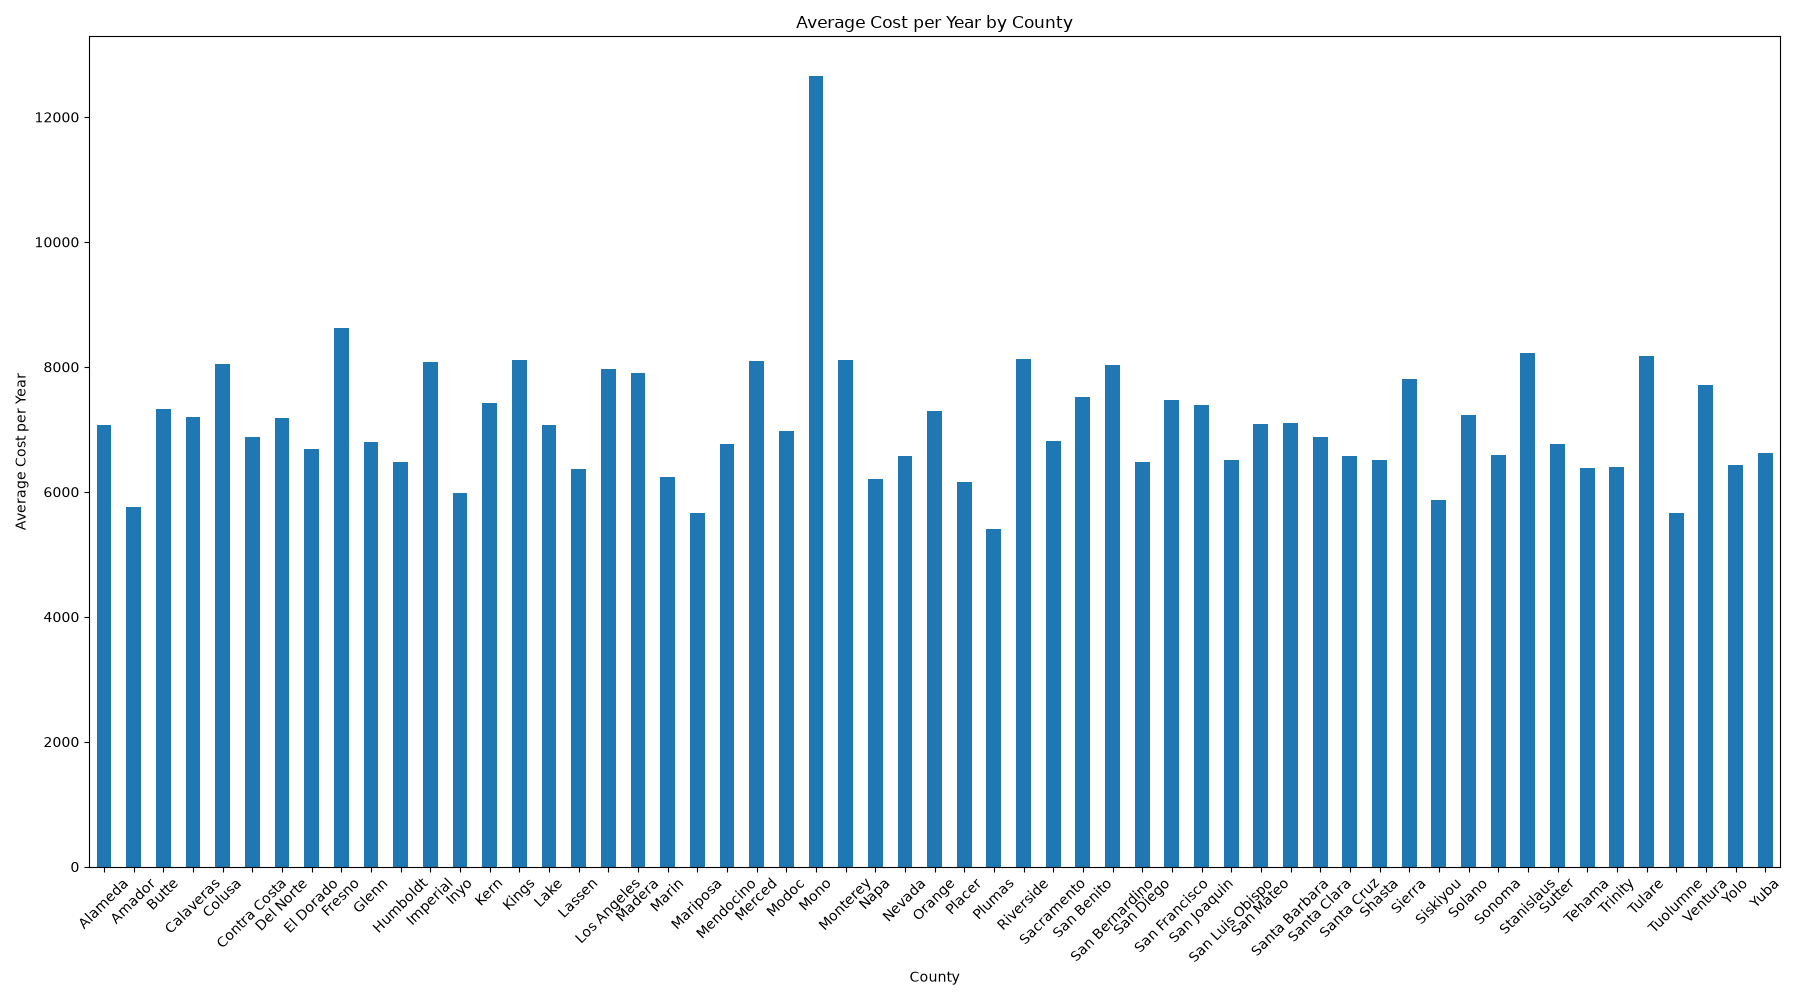
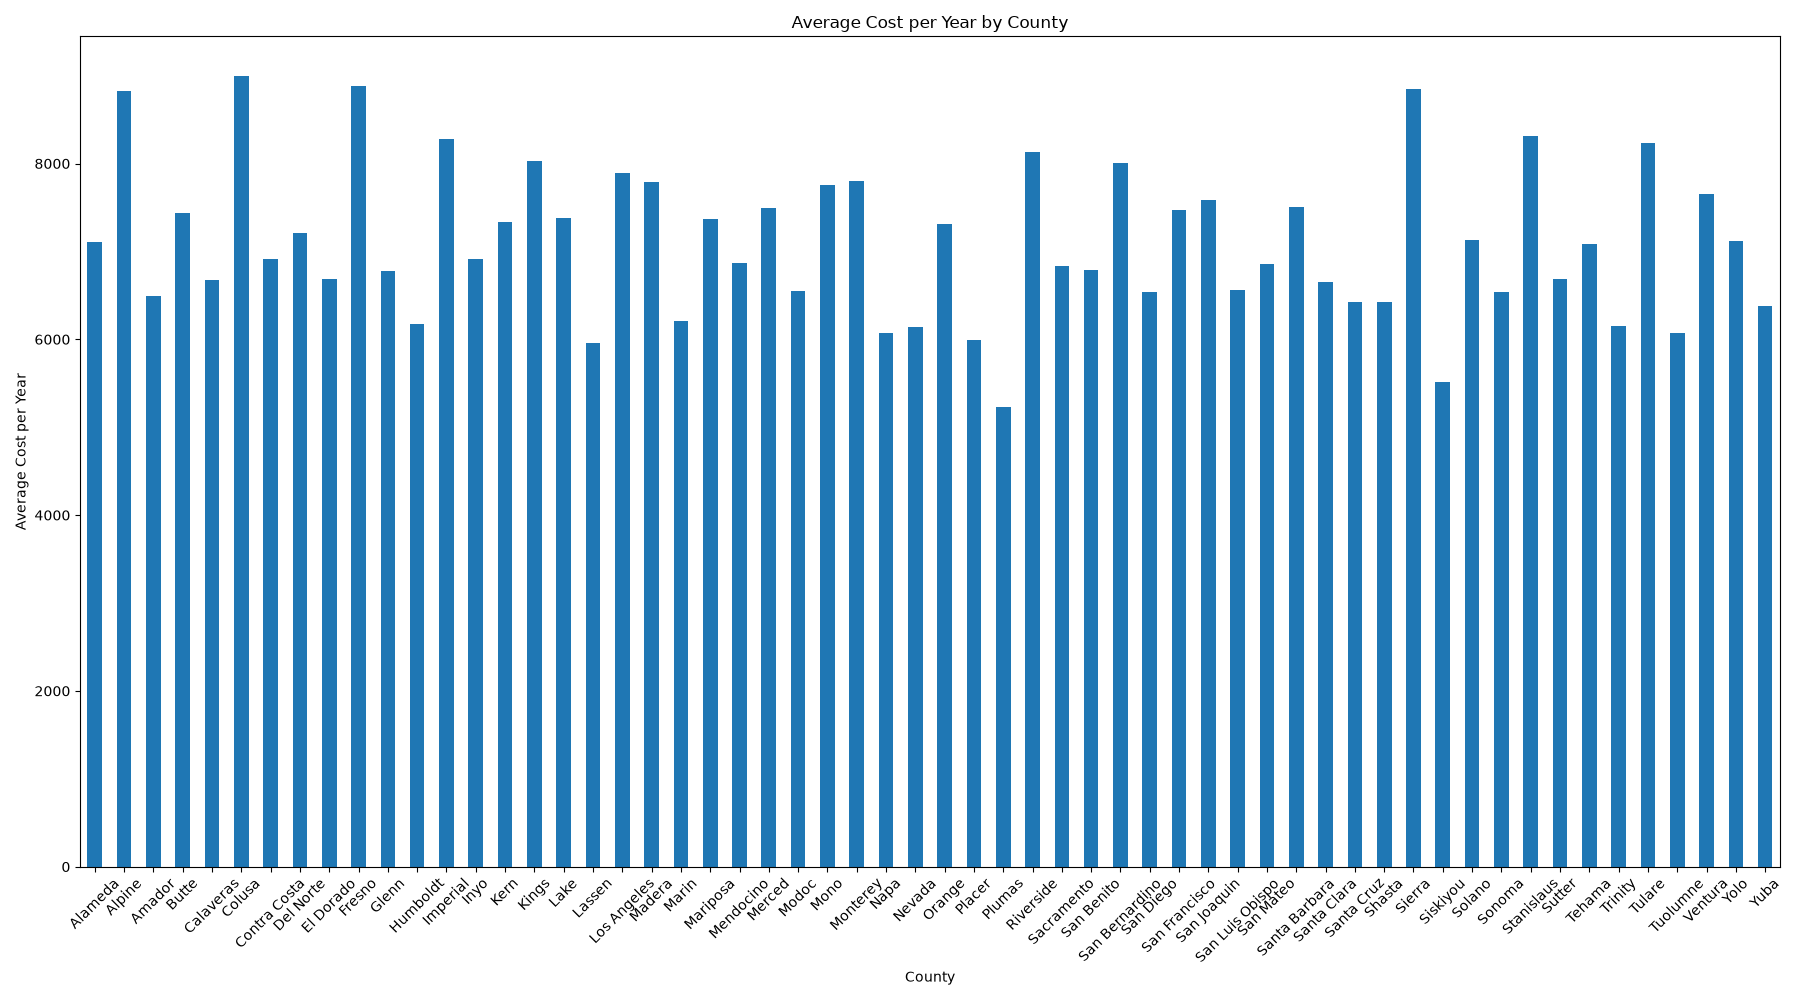
Add files via upload

diff --git a/Project Report Code.py b/Project Report Code.py
@@ -1,52 +1,70 @@
 # Kisha Kiprop
 # CSE 163 AE
-# Creates visualizations for the California County Report
-# based on the research questions
+# Creates visualizations for the California Food Affordability
+# with columns of interest (cost_yr, median_income, county_name,
+# ave_fam_size)
 import pandas as pd
 import matplotlib.pyplot as plt
 import seaborn as sns
 import numpy as np
+
 
 def main():
     # reads data from the excel file and prints the column names
     california_data = pd.read_excel('data.xls')
     print(f"Total number of families in the dataset: {len(california_data)}")
 
-    # drops any rows with missing values
-    california_data =california_data.dropna().reset_index(drop=True)
-    print(f"Total number of families in the dataset after dropping missing values: {len(california_data)}\n")
+    # groups the data by county and calculates the average cost per year,
+    # median income, and average family size for each county
+    county_spending = california_data.groupby(
+        "county_name")["cost_yr"].mean().reset_index()
+    county_salary = california_data.groupby(
+        "county_name")["median_income"].mean().reset_index()
+    county_family_size = california_data.groupby(
+        "county_name")["ave_fam_size"].mean().reset_index()
 
-    # groups the data by county and calculates the average cost per year, median income, and average family size for each county
-    county_spending = california_data.groupby("county_name")["cost_yr"].mean().reset_index()
-    county_salary = california_data.groupby("county_name")["median_income"].mean().reset_index()
-    county_family_size = california_data.groupby("county_name")["ave_fam_size"].mean().reset_index()
+    # merges the three dataframes on the county_name column to create a
+    # new dataframe with all the relevant information for each county
+    county_joined = pd.merge(county_spending,
+                             county_salary,
+                             on="county_name")
+
+    county_joined = pd.merge(county_joined,
+                             county_family_size,
+                             on="county_name")
+
+    # drops any rows with missing values and resets the index of the dataframe
+    county_joined = county_joined.dropna().reset_index(drop=True)
 
     # prints the seven number summary for the cost_yr column
-    seven_number_summary(county_spending, "cost_yr")
+    seven_number_summary(county_joined, "cost_yr")
     print()
 
     # prints the seven number summary for the median_income column
-    seven_number_summary(county_salary, "median_income")
+    seven_number_summary(county_joined, "median_income")
     print()
 
     # prints the seven number summary for the average family size column
-    seven_number_summary(county_family_size, "ave_fam_size")
+    seven_number_summary(county_joined, "ave_fam_size")
     print()
 
     # prints each unique county name in the dataset
-    print(f"\nThe {len(county_spending)} unique county names in the dataset are: {county_spending['county_name'].tolist()}")
-
-    # merges the three dataframes on the county_name column to create a new dataframe with all the relevant information for each county
-    county_joined = pd.merge(county_spending, county_salary, on="county_name")
-    county_joined = pd.merge(county_joined, county_family_size, on="county_name")
-
+    print(
+        f"\nThe {
+            len(county_joined)} unique county names in the dataset are: {
+            county_joined['county_name'].tolist()}")
     avg_cost_per_year_by_county(county_joined)
 
-    # Creates a new column in the county_joined dataframe that calculates 
+    # Creates a new column in the county_joined dataframe that calculates
     # the ratio of median income to cost per year for each county
     salary_vs_cost(county_joined)
 
     individual_affordability(california_data)
+    result_validity(california_data)
+    print()
+
+    test_seven_number_summary()
+    test_salary_vs_cost()
 
 
 def seven_number_summary(data, column_name):
@@ -65,25 +83,33 @@ def seven_number_summary(data, column_name):
     for key, value in stats.items():
         print(f"{key}: {value}")
 
+    return stats
+
 
 def avg_cost_per_year_by_county(county_joined):
     # Creates a bar chart showing the average cost per year by county
     # saves the chart as a PNG file
     fig, ax = plt.subplots(figsize=(18, 10))
 
-    county_joined.plot(kind='bar', x='county_name', y='cost_yr', ax=ax, legend=False)
+    county_joined.plot(kind='bar',
+                       x='county_name',
+                       y='cost_yr',
+                       ax=ax,
+                       legend=False)
     ax.set_title('Average Cost per Year by County')
     ax.set_xlabel('County')
     ax.set_ylabel('Average Cost per Year')
     plt.xticks(rotation=45)
-    plt.tight_layout()  
+    plt.tight_layout()
     plt.savefig('average_cost_per_year_by_county.png')
 
 
 def salary_vs_cost(data):
     # Creates a new column in a dataframe that calculates the ratio of median
     # income to cost per year for each county
-    ratio = (data['median_income'] - data['cost_yr']) / data['median_income'] * 100
+    df_no_nan = data.dropna(subset=['median_income', 'cost_yr'])
+    ratio = (df_no_nan['median_income'] -
+             df_no_nan['cost_yr']) / df_no_nan['median_income'] * 100
 
     data['ratio'] = ratio
 
@@ -91,31 +117,101 @@ def salary_vs_cost(data):
 def individual_affordability(data):
     # Creates a new column in a dataframe that calculates the ratio of median
     # income to cost per year for each county
-    # Creates a bar chart showing the number of families that spend more than 50% of their salary on food
+    # Creates a bar chart showing the number of families that
+    # spend more than 50% of their salary on food
     salary_vs_cost(data)
-
+    data = data.dropna(subset=['ratio'])
     data['more_than_50_percent'] = data['ratio'] > 50
 
     affordability_counts = {
-        'Less than 50% of salary': len(data[data['more_than_50_percent'] == True]),
-        'More than 50% of salary': len(data[data['more_than_50_percent'] == False])
-    }
+        'More than 50% left':
+        int(len(data[data['more_than_50_percent']])),
+        '50% or less left':
+        int(len(data[~data['more_than_50_percent']]))
+        }
 
     fig, ax = plt.subplots(figsize=(10, 6))
     sns.barplot(
         x=list(affordability_counts.keys()),
         y=list(affordability_counts.values()),
-        ax=ax, 
-        hue=['#FF9999', '#99FF99']
+        ax=ax,
+        hue=['#FF9999', '#99FF99'],
+        legend=False
     )
-    ax.set_title('Families Spending More Than 50% of Salary on Food')
+    ax.set_title(
+        'How Much of Families\' Salaries are Left After Paying for Food'
+        )
     ax.set_xlabel('')
     ax.set_ylabel('Number of Families')
     plt.tight_layout()
-    plt.savefig('individual_affordability.png')
+    plt.savefig('family_affordability.png')
 
 
-#def result_validity(data):
+def result_validity(data):
+    # Test whether less than half of families have
+    # over 50% of income left.
+    # Under the null, each family has a 50% chance
+    # of being above the threshold.
+    salary_vs_cost(data)
+
+    ratios = data['ratio'].to_numpy(dtype=float)
+    valid_ratios = ratios[np.isfinite(ratios)]
+    sample_size = valid_ratios.size
+
+    successes = int(np.count_nonzero(valid_ratios > 50))
+    simulation_count = 10000
+    simulated_successes = np.random.binomial(
+        n=sample_size,
+        p=0.5,
+        size=simulation_count
+    )
+    p_value = np.count_nonzero(simulated_successes <=
+                               successes) / simulation_count
+    alpha = 0.05
+    reject_null = p_value < alpha
+
+    print("\nAffordability hypothesis test:")
+    print("H0: At least half of families have more than 50% of income left.")
+    print("Ha: Fewer than half of families have more than 50% of income left.")
+    print(f"Families above 50%: {successes} of {sample_size}")
+    print(f"Estimated one-sided p-value from {
+        simulation_count} simulations: {p_value:.4f}")
+    if reject_null:
+        print(f"Reject H0 at alpha = {alpha}: evidence supports Ha.")
+    else:
+        print(f"Fail to reject H0 at alpha = {alpha}; this does not prove H0.")
+
+    return {
+        'sample_size': sample_size,
+        'successes': successes,
+        'p_value': p_value,
+        'alpha': alpha,
+        'simulations': simulation_count,
+        'reject_null': reject_null
+    }
+
+
+def test_seven_number_summary():
+    # Test the seven_number_summary function with a sample dataframe
+    test_data = pd.DataFrame({
+        'cost_yr': [1000, 2000, 3000, 4000, 5000]
+    })
+    test_summary = seven_number_summary(test_data, 'cost_yr')
+    assert test_summary['mean'] == 3000
+
+
+def test_salary_vs_cost():
+    # Test the salary_vs_cost function with a sample dataframe
+    test_data = pd.DataFrame({
+        'median_income': [50000, 60000, 70000],
+        'cost_yr': [20000, 25000, 30000]
+    })
+    salary_vs_cost(test_data)
+    expected_ratios = [((50000 - 20000) / 50000 * 100),
+                       ((60000 - 25000) / 60000 * 100),
+                       ((70000 - 30000) / 70000 * 100)]
+    assert (test_data['ratio'].tolist() == expected_ratios)
+
 
 if __name__ == "__main__":
     main()
